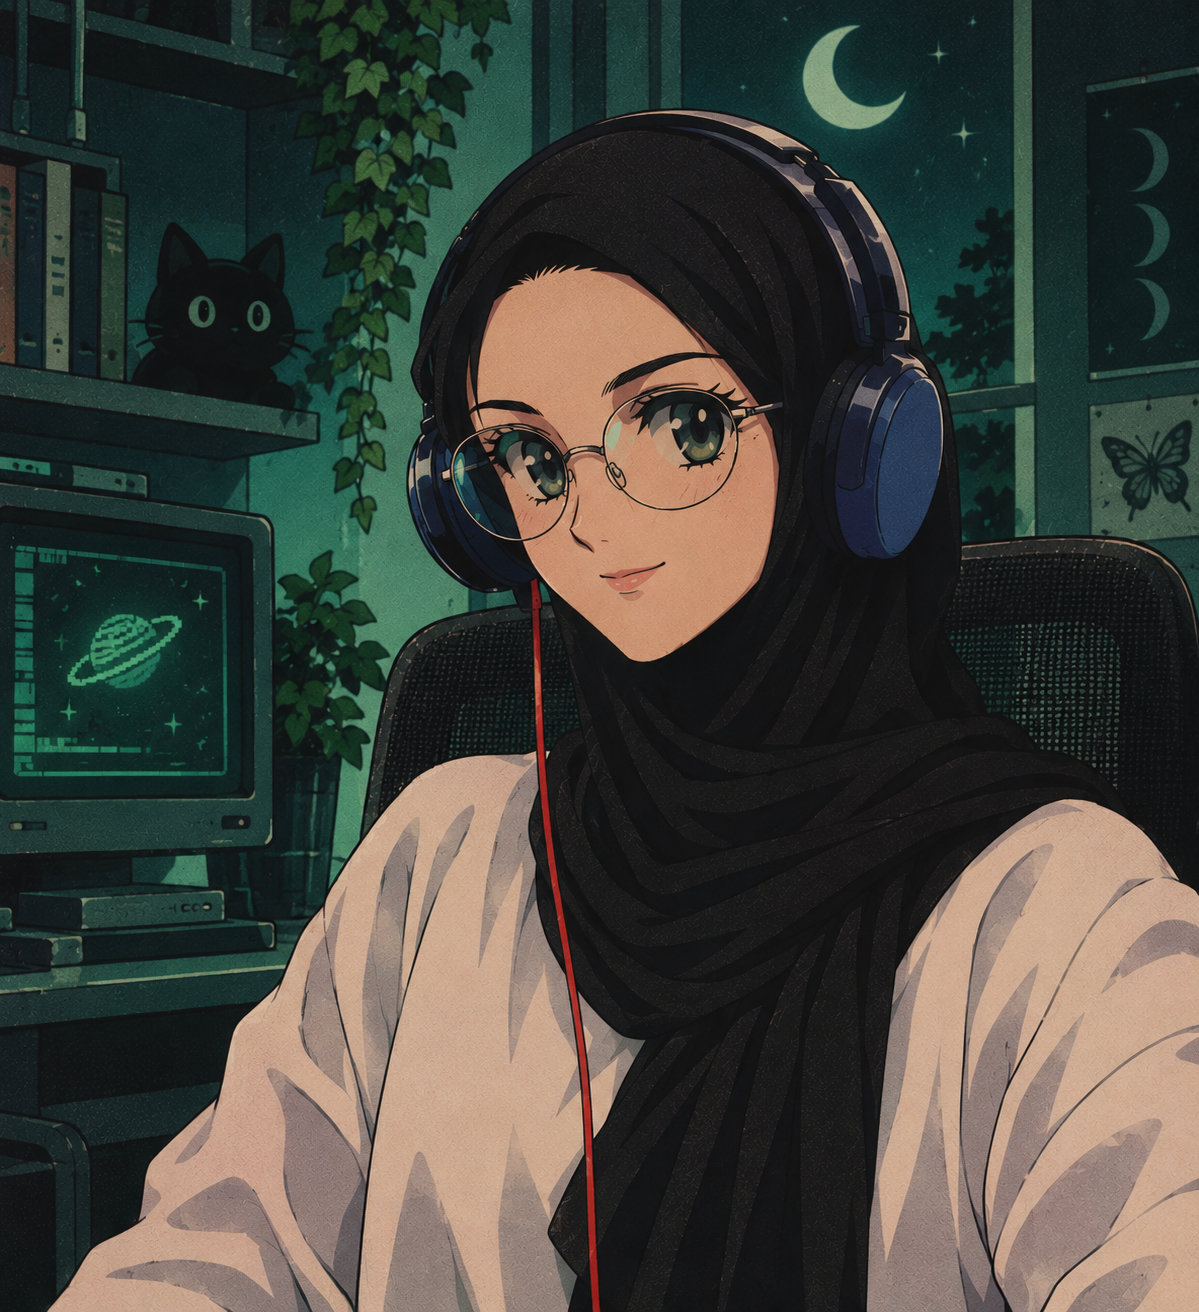
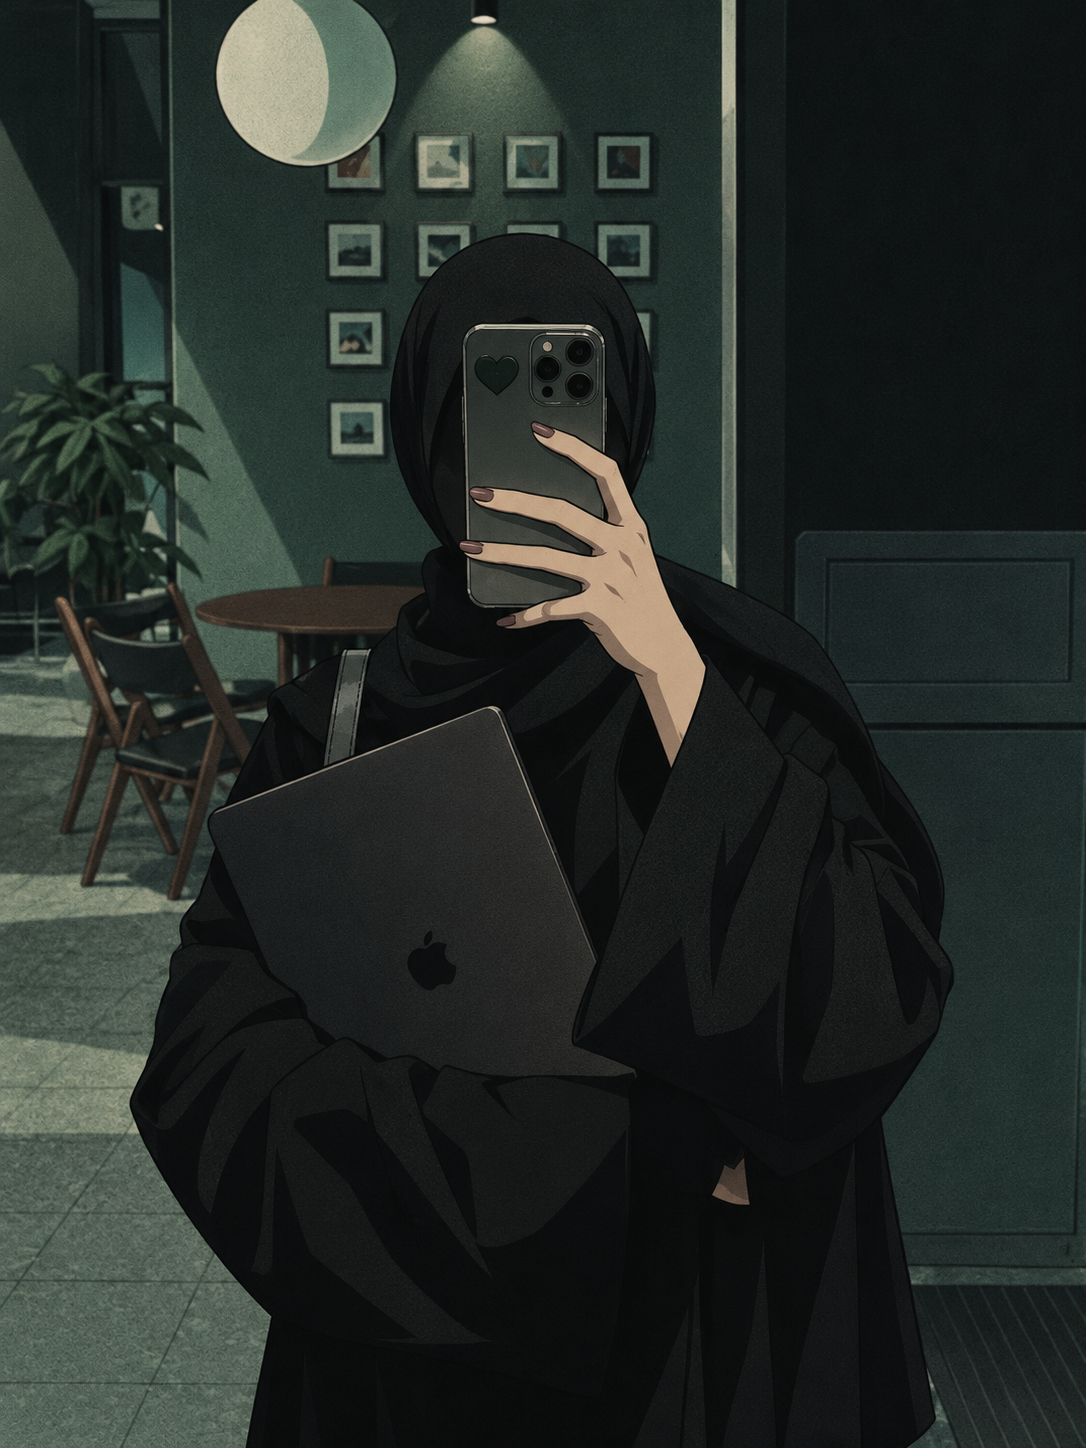
final version

diff --git a/src/components/Sidebar.jsx b/src/components/Sidebar.jsx
@@ -1,38 +1,65 @@
-import { Code, Folder, House, Icon, Mail, Sparkles, Star, User } from "lucide-react";
+import {
+  Code,
+  Folder,
+  House,
+  Icon,
+  Mail,
+  Sparkles,
+  Star,
+  User,
+} from "lucide-react";
 import MusicPlayer from "./MusicPlayer";
 import SocialLinks from "./SocialLinks";
+import PixelCat from "./PixelCat";
 
-const links=[
-    {label: 'Home', href:'#top', icon: House},
-    {label: 'About', href:'#about', icon: User},
-    {label: 'Projects', href:'#projects', icon: Folder},
-    {label: 'Skills', href:'#skills', icon: Code},
-    {label: 'Beyond Code', href:'#beyond', icon: Star},
-    {label: 'Contact', href:'#contact', icon: Mail},
-]
+const links = [
+  { label: "Home", href: "#top", icon: House },
+  { label: "About", href: "#about", icon: User },
+  { label: "Projects", href: "#projects", icon: Folder },
+  { label: "Skills", href: "#skills", icon: Code },
+  { label: "Beyond Code", href: "#beyond", icon: Star },
+  { label: "Contact", href: "#contact", icon: Mail },
+];
 
-export default function Sidebar(){
-    return(
-        <aside className="flex flex-col gap-8 border-b border-line bg-sidebar p-6 md:sticky md:top-0 md:h-screen md:w-60 md:shrink-0 md:border-r md:border-b-0">
-            <a href="#top"
-            className="flex items-center gap-2 font-serif text-4xl font-medium text-sage">
-                Mia <Sparkles size={14} fill="currentColor"/>
+export default function Sidebar() {
+  return (
+    <aside className="flex flex-col gap-8 border-b border-line bg-sidebar p-6 md:sticky md:top-0 md:h-screen md:w-60 md:shrink-0 md:border-r md:border-b-0">
+      <div className="sidebar-scroll flex flex-col gap-5 md:min-h-0 md:flex-1 md:overflow-y-auto">
+         <PixelCat />
+        <a
+          href="#top"
+          className="flex items-center gap-2 font-serif text-4xl font-medium text-sage"
+        >
+         
+          Mia <Sparkles size={14} fill="currentColor" />
+        </a>
+        <nav
+          aria-label="Main"
+          className="grid grid-cols-2 gap-1.5 md:grid-cols-1"
+        >
+          {links.map(({ label, href, icon: Icon }) => (
+            <a
+              key={label}
+              href={href}
+              className="flex min-h-11 items-center gap-3 rounded-xl px-3 text-sm text-soft transition hover:bg-sage/10 hover:text-sage"
+            >
+              <Icon size={18} strokeWidth={1.75} />
+              {label}
             </a>
-            <nav aria-label="Main" className="grid grid-cols-2 gap-1.5 md:grid-cols-1">
-                {links.map(({label, href, icon:Icon})=>(
-                    <a key={label} href={href} className="flex min-h-11 items-center gap-3 rounded-xl px-3 text-sm text-soft transition hover:bg-sage/10 hover:text-sage">
-                        <Icon size={18} strokeWidth={1.75}/>
-                        {label}
-                    </a>
-                ))}
-            </nav>
-            <MusicPlayer title="Lofi Focus" artist="Lofi" src="/audio/lofi-focus.mp3"/>
-            <div className="mt-auto flex flex-col gap-3">
-                <p className="font-serif text-lg italic text-soft">
-                    Let's build something meaningful.
-                </p>
-                <SocialLinks/>
-            </div>
-        </aside>
-    )
+          ))}
+        </nav>
+        <MusicPlayer
+          title="Lofi Focus"
+          artist="Lofi"
+          src="/audio/lofi-focus.mp3"
+        />
+      </div>
+      <div className="mt-auto flex flex-col gap-3">
+        <p className="font-serif text-lg italic text-soft">
+          Let's build something meaningful.
+        </p>
+        <SocialLinks />
+      </div>
+    </aside>
+  );
 }

diff --git a/src/components/PixelCat.jsx b/src/components/PixelCat.jsx
@@ -1,62 +1,56 @@
-// Chaque caractère = 1 pixel : '#' = rempli, '.' = vide
-const BODY = [
-    '.##........##.',
-    '.###......###.',
-    '.############.',
-    '.############.',
-    '.############.',
-    '.############.',
-    '.############.',
-    '..##########..',
-    '.############.',
-    '.############.',
-    '.############.',
-    '.####....####.',
-  ]
-  
-  const TAIL = [
-    '..##',
-    '...#',
-    '...#',
-    '...#',
-    '...#',
-    '...#',
-    '..##',
-    '###.',
-  ]
-  
-  // Transforme la grille de texte en liste de coordonnées {x, y}
-  const cells = (rows, x0 = 0, y0 = 0) =>
-    rows.flatMap((row, y) =>
-      [...row].flatMap((char, x) =>
-        char === '#' ? [{ x: x + x0, y: y + y0 }] : []
-      )
-    )
-  
-  export default function PixelCat({ className = '' }) {
-    return (
+
+export default function PixelCat() {
+  return (
+    <div className="pixel-cat-container" aria-hidden="true">
       <svg
-        viewBox="0 0 17 12"
-        role="img"
-        aria-label="A pixel cat"
-        shapeRendering="crispEdges"
-        className={className}
+        className="pixel-cat"
+        viewBox="0 0 180 125"
+        xmlns="http://www.w3.org/2000/svg"
       >
-        <g className="fill-sage">
-          {cells(BODY).map(({ x, y }) => (
-            <rect key={`b-${x}-${y}`} x={x} y={y} width="1" height="1" />
-          ))}
+        {/* Tail */}
+        <g className="cat-tail">
+          <path
+            d="M112 102 H139 V96 H151 V84 H157 V53
+               H151 V40 H145 V27 H139 V14 H133 V8
+               H127 V14 H133 V27 H139 V40 H145 V53"
+          />
         </g>
-  
-        <g className="cat-tail fill-sage">
-          {cells(TAIL, 13, 3).map(({ x, y }) => (
-            <rect key={`t-${x}-${y}`} x={x} y={y} width="1" height="1" />
-          ))}
+
+        {/* Body */}
+        <g className="cat-body">
+          <path
+            d="M35 105 H23 V94 H29 V77 H35 V55
+               H41 V38 H47 V44 H59 V55 H81
+               V49 H87 V38 H93 V32 H99 V38
+               H105 V49 H111 V56 H121 V50
+               H139 V63 H145 V83 H139 V96
+               H127 V105 H111 V111 H99
+               V105 H81 V111 H59 V105 H47
+               V111 H35 Z"
+          />
+
+          {/* Paws */}
+          <path d="M47 99 H41 V105 H35 V111 H53 V105 H59" />
+          <path d="M99 99 H105 V105 H111 V111 H93 V105 H87" />
+          <path d="M123 99 H129 V105 H141 V111 H117 V105 H111" />
+
+          {/* Whiskers */}
+          <path d="M29 78 H21 M29 86 H23" />
+          <path d="M145 78 H153 M145 86 H151" />
         </g>
-  
-        <rect className="cat-eye fill-night" x="4" y="4" width="1" height="2" />
-        <rect className="cat-eye fill-night" x="9" y="4" width="1" height="2" />
-        <rect className="fill-ink" x="6" y="6" width="2" height="1" />
+
+        {/* Eyes */}
+        <g className="cat-eyes">
+          <rect x="50" y="76" width="5" height="5" />
+          <rect x="86" y="76" width="5" height="5" />
+        </g>
+
+        {/* Nose and mouth */}
+        <path
+          className="cat-mouth"
+          d="M68 88 H74 L77 92 L80 88 H85"
+        />
       </svg>
-    )
-  }
+    </div>
+  );
+}

diff --git a/src/index.css b/src/index.css
@@ -33,21 +33,96 @@
   96% { transform: scaleY(0.1); }
 }
 
-.cat-tail {
-  transform-box: fill-box;
-  transform-origin: 0% 100%;
-  animation: tail-wag 2.4s ease-in-out infinite;
+
+/* Pixel cat */
+.pixel-cat-container {
+  display: flex;
+  justify-content: center;
+  align-items: center;
+  width: 100%;
+  margin-bottom: -8px;
 }
 
-.cat-eye {
+.pixel-cat {
+  width: 100px;
+  height: auto;
+  overflow: visible;
+  color: var(--color-ink);
+}
+
+/* Outline style */
+.pixel-cat .cat-body,
+.pixel-cat .cat-tail {
+  fill: none;
+  stroke: currentColor;
+  stroke-width: 3.5;
+  stroke-linecap: square;
+  stroke-linejoin: miter;
+}
+
+.pixel-cat .cat-eyes {
+  fill: currentColor;
   transform-box: fill-box;
   transform-origin: center;
-  animation: blink 5s infinite;
+}
+@media (prefers-reduced-motion: no-preference) {
+  .pixel-cat .cat-eyes {
+    animation: cat-blink 5s infinite;
+  }
 }
 
-@media (prefers-reduced-motion: reduce) {
-  .cat-tail,
-  .cat-eye {
-    animation: none;
+.pixel-cat .cat-mouth {
+  fill: none;
+  stroke: currentColor;
+  stroke-width: 2.5;
+  stroke-linecap: square;
+}
+
+/* Breathing */
+.pixel-cat .cat-body {
+  transform-box: fill-box;
+  transform-origin: center bottom;
+}
+@media (prefers-reduced-motion: no-preference) {
+  .pixel-cat .cat-body {
+    animation: cat-breathe 3s ease-in-out infinite;
   }
+}
+/* Tail movement */
+.pixel-cat .cat-tail {
+  transform-box: view-box;
+  transform-origin: 112px 102px;
+}
+@media (prefers-reduced-motion: no-preference) {
+  .pixel-cat .cat-tail {
+    animation: cat-tail-wag 2.5s ease-in-out infinite;
+  }
+}
+/* Animations */
+@keyframes cat-breathe {
+  0%, 100% { transform: translateY(0); }
+  50% { transform: translateY(-2px); }
+}
+
+@keyframes cat-tail-wag {
+  0%, 100% { transform: rotate(0); }
+  50% { transform: rotate(-8deg); }
+}
+
+@keyframes cat-blink {
+  0%, 44%, 48%, 100% { transform: scaleY(1); }
+  46% { transform: scaleY(0.1); }
+}
+
+/* Reduced motion accessibility */
+@media (prefers-reduced-motion: reduce) {
+  .pixel-cat * {
+    animation: none !important;
+  }
+}
+
+
+.sidebar-scroll{
+  scrollbar-width: thin;
+  scrollbar-color: rgba(180, 210, 195, 0.35) transparent;
 }

diff --git a/src/components/MusicPlayer.jsx b/src/components/MusicPlayer.jsx
@@ -1,5 +1,7 @@
 import { Pause, Play } from "lucide-react";
 import { useRef, useState } from "react";
+import audioImg from "../assets/images/audio.jpg";
+
 
 export default function MusicPlayer({ title, artist, src }) {
   const audioRef = useRef(null);
@@ -24,7 +26,9 @@ export default function MusicPlayer({ title, artist, src }) {
 
   return (
     <div className="flex flex-col gap-3 rounded-2xl border border-line bg-sage/5 p-3.5">
-      <div className="h-20 rounded-lg bg-linear-to-br from-[#1b2a3a] via-[#14201f] to-[#0f1a17]" />
+      <div className="h-20 rounded-lg bg-linear-to-br from-[#1b2a3a] via-[#14201f] to-[#0f1a17]" >
+        <img src={audioImg} alt="Album cover" className="h-full w-full rounded-lg object-cover" />
+      </div>
       <div className="leading-snug">
         <p className="text-sm font-medium text-ink">{title}</p>
         <p className="text-xs text-muted">{artist}</p>

diff --git a/src/data/beyond.js b/src/data/beyond.js
@@ -1,8 +1,17 @@
-export const interests = ['Books', 'Anime','Sports', 'Writing']
+import booksImg from "../assets/images/beyond/books.jpg";
+import craftsImg from "../assets/images/beyond/crafts.jpg";
+import sportsImg from "../assets/images/beyond/sports.jpg";
+export const interests = [
+  "Reading",
+  "Learning",
+  "Moving",
+  "Writing",
+  "Creating",
+];
 
-export const polaroids=[
-    {label:'Books', image: null, rotate:'-rotate-6'},
-    { label: 'Anime', image: null, rotate: 'rotate-3' },
-  { label: 'Sports', image: null, rotate: '-rotate-3' },
-  { label: 'Writing', image: null, rotate: 'rotate-6' },
-]
+export const polaroids = [
+  { label: "Books", image: booksImg, rotate: "-rotate-6" },
+  { label: "Crafts", image: craftsImg, rotate: "rotate-3" },
+  { label: "Sports", image: sportsImg, rotate: "-rotate-3" },
+  // { label: 'Writing', image: null, rotate: 'rotate-6' },
+];

diff --git a/src/data/socials.js b/src/data/socials.js
@@ -1,10 +1,11 @@
 import { Mail } from 'lucide-react'
-import { FaGithub, FaLinkedinIn } from 'react-icons/fa6'
+import { FaGithub, FaInstagram, FaLinkedinIn } from 'react-icons/fa6'
 
 export const email = "meriem.djebbar@outlook.com"
 export const socials = [
     {label:'Github', href:'https://github.com/indie-cs', icon: FaGithub},
     {label:'LinkedIn', href:'https://www.linkedin.com/in/meriem-djebbar/', icon: FaLinkedinIn },
+    {label:'Instagram', href:'https://www.instagram.com/yurhouse_?obrf=cmNmdTdybHppcGI5', icon: FaInstagram},
     {label:'Email', href:'mailto:${email}', icon: Mail},
     
 

diff --git a/index.html b/index.html
@@ -2,7 +2,7 @@
 <html lang="en">
   <head>
     <meta charset="UTF-8" />
-    <link rel="icon" type="image/svg+xml" href="/favicon.svg" />
+    <link rel="icon" type="image/svg+xml" href="/cat.svg" />
     <link rel="preconnect" href="https://fonts.googleapis.com" />
     <link rel="preconnect" href="https://fonts.gstatic.com" crossorigin />
     <link
@@ -10,7 +10,7 @@
       rel="stylesheet"
     />
     <meta name="viewport" content="width=device-width, initial-scale=1.0" />
-    <title>portfolio-v1</title>
+    <title>Mia's Portfolio</title>
   </head>
   <body>
     <div id="root"></div>
